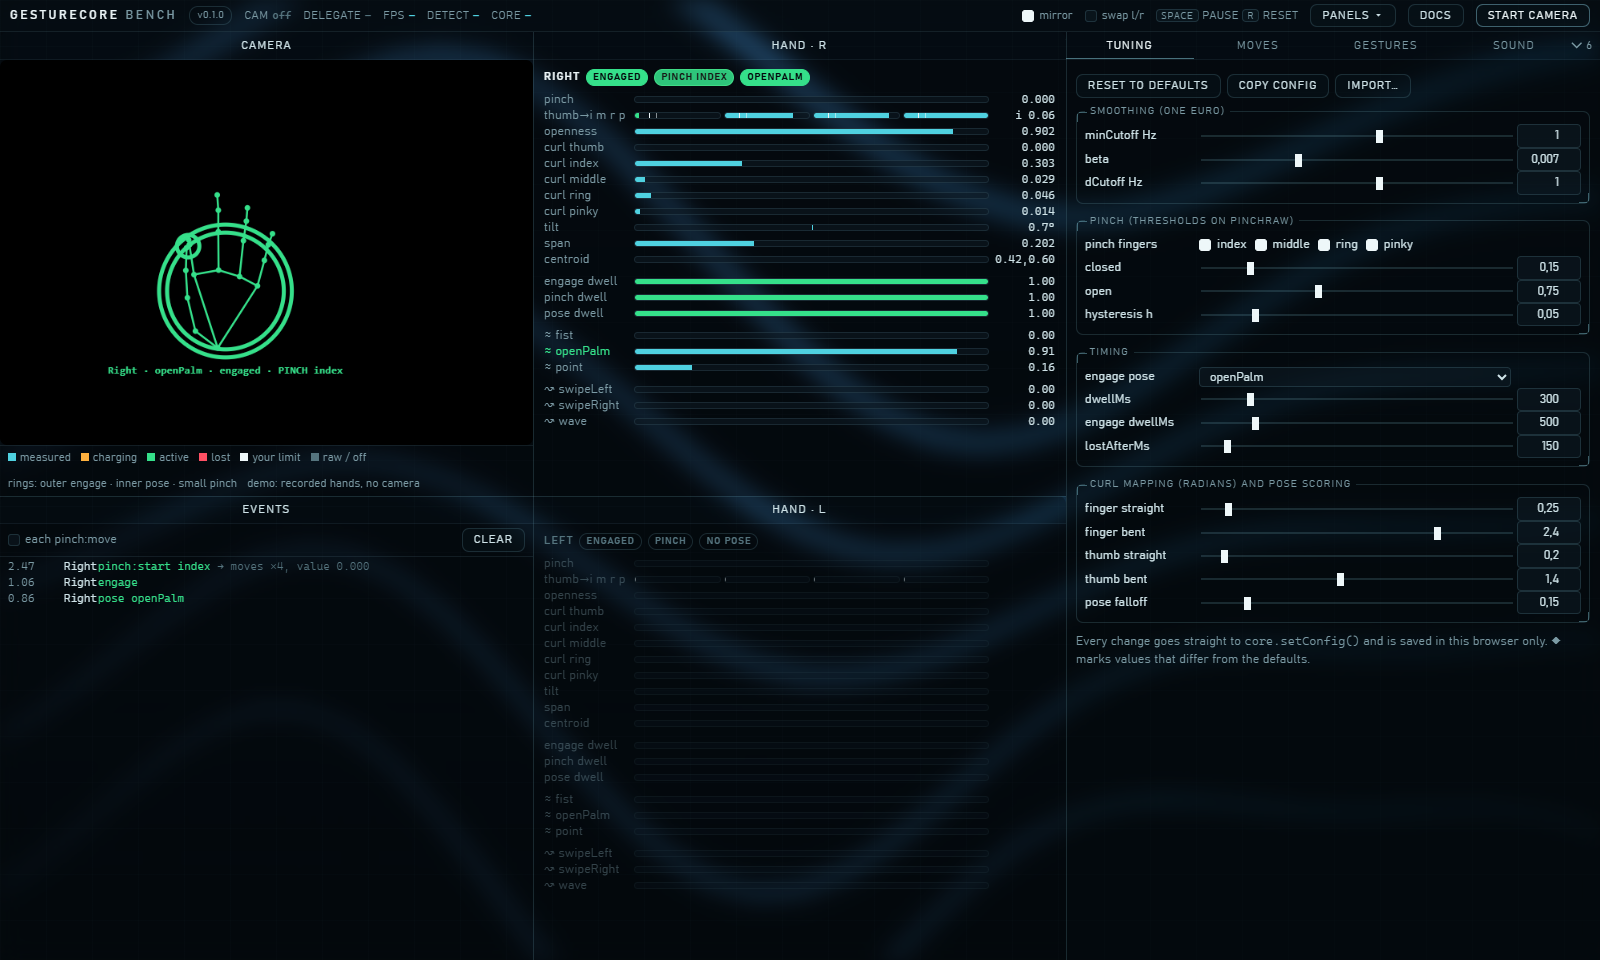
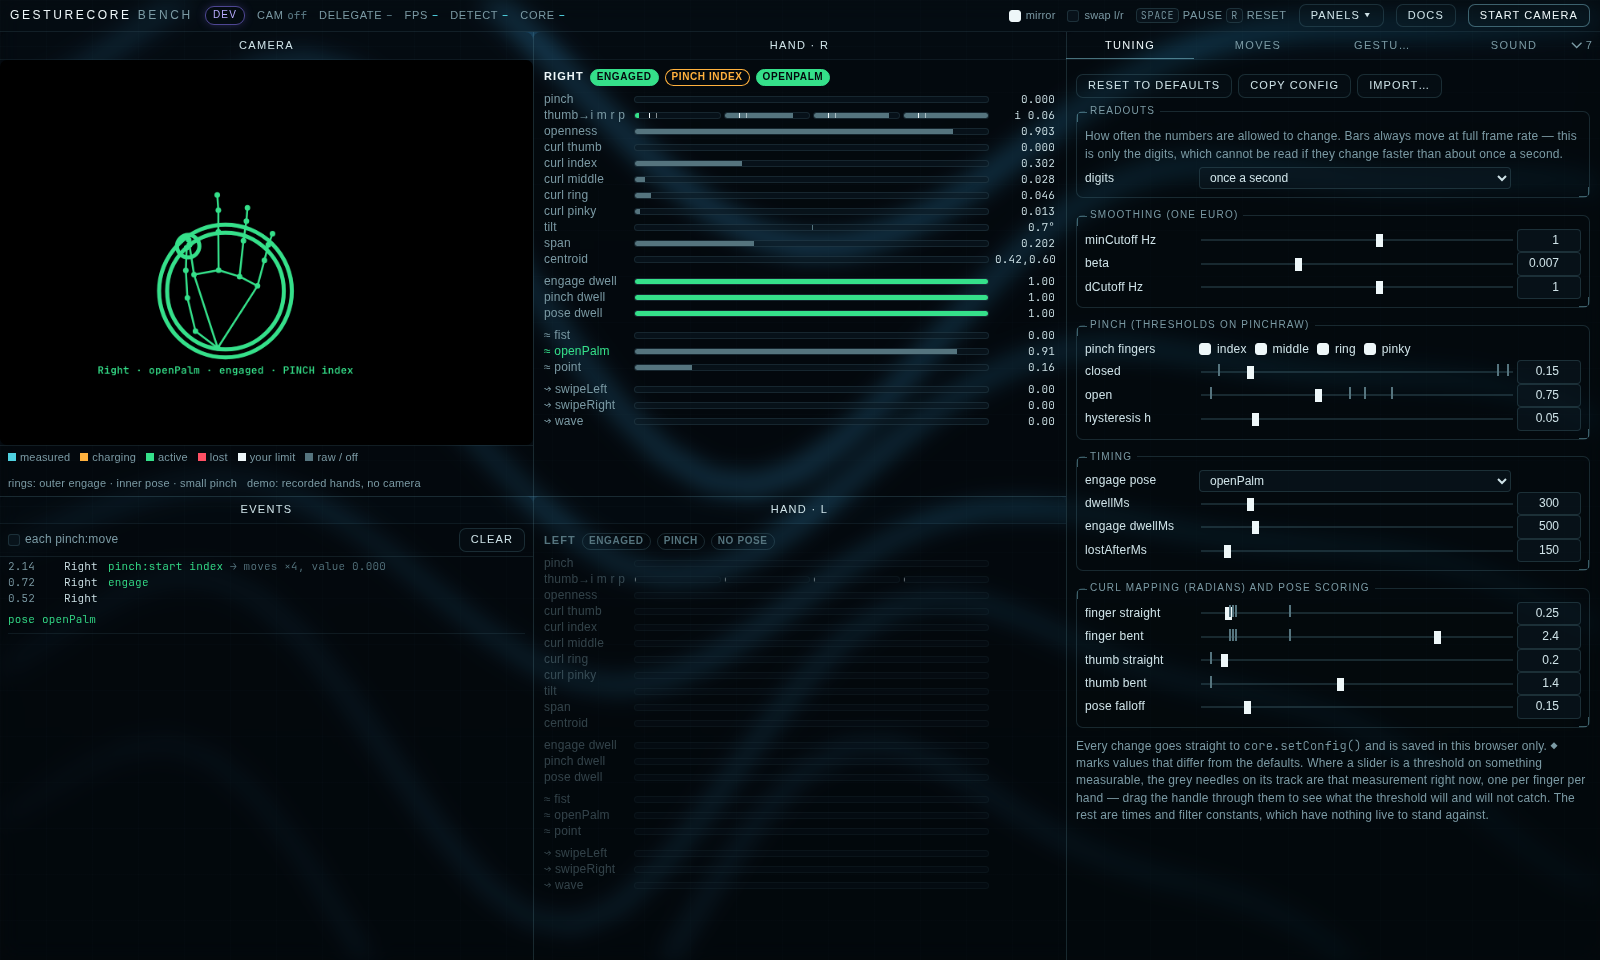
README: retake the screenshots that had gone stale
All three were from before this week's work. The bench shot predated the
quieting, so it showed colour on every measurement and digits mid-repaint; the
Moves shot predated the per-pose switches; and the docs shot showed the manual
as a panel in the dock, which it has not been since it became its own page.

The alt text now says what each one actually shows rather than naming the
panel, which is the part a screen reader gets.

Claude-Session: https://claude.ai/code/session_01MMWcZxXMyy8LzSGCWmiabL

diff --git a/README.md b/README.md
@@ -7,7 +7,7 @@ build on it.**
 [the demo](https://gesturecore.vercel.app/bench/?demo) with recorded hands. Nothing leaves your
 browser.
 
-![The gesturecore bench: a recorded hand pinching, with every measurement, timer and pose score live](docs/screenshots/bench.png)
+![The gesturecore bench: a recorded hand pinching. Measurements are drawn in grey and colour is kept for state, so the green bars are the three timers that have actually filled. The tuning sliders on the right carry grey needles showing the live reading each threshold cuts.](docs/screenshots/bench.png)
 
 This repository is a small family of packages. The core stands alone; every other
 package is a *brick*: optional, independent, and something the core never knows about.
@@ -91,11 +91,11 @@ synthetic face that nods, shakes, tilts, blinks and raises its brows.
 
 | Every gesture the core knows, lit while it happens | The hand-driven wave field, as its own panel |
 | --- | --- |
-| ![Moves panel](docs/screenshots/moves.png) | ![Field panel](docs/screenshots/field.png) |
+| ![The Moves catalogue: every gesture the core knows, each with a switch and the numbers it is judged by, lit while it happens](docs/screenshots/moves.png) | ![Field panel](docs/screenshots/field.png) |
 
 ![The Head panel: the demo face tilting right, with its angles, eyes, expression timers and the log](docs/screenshots/head.png)
 
-![The manual](docs/screenshots/docs.png)
+![The manual: its own page, with a table of contents and the frame-to-events pipeline drawn out](docs/screenshots/docs.png)
 
 ```bash
 npm install
